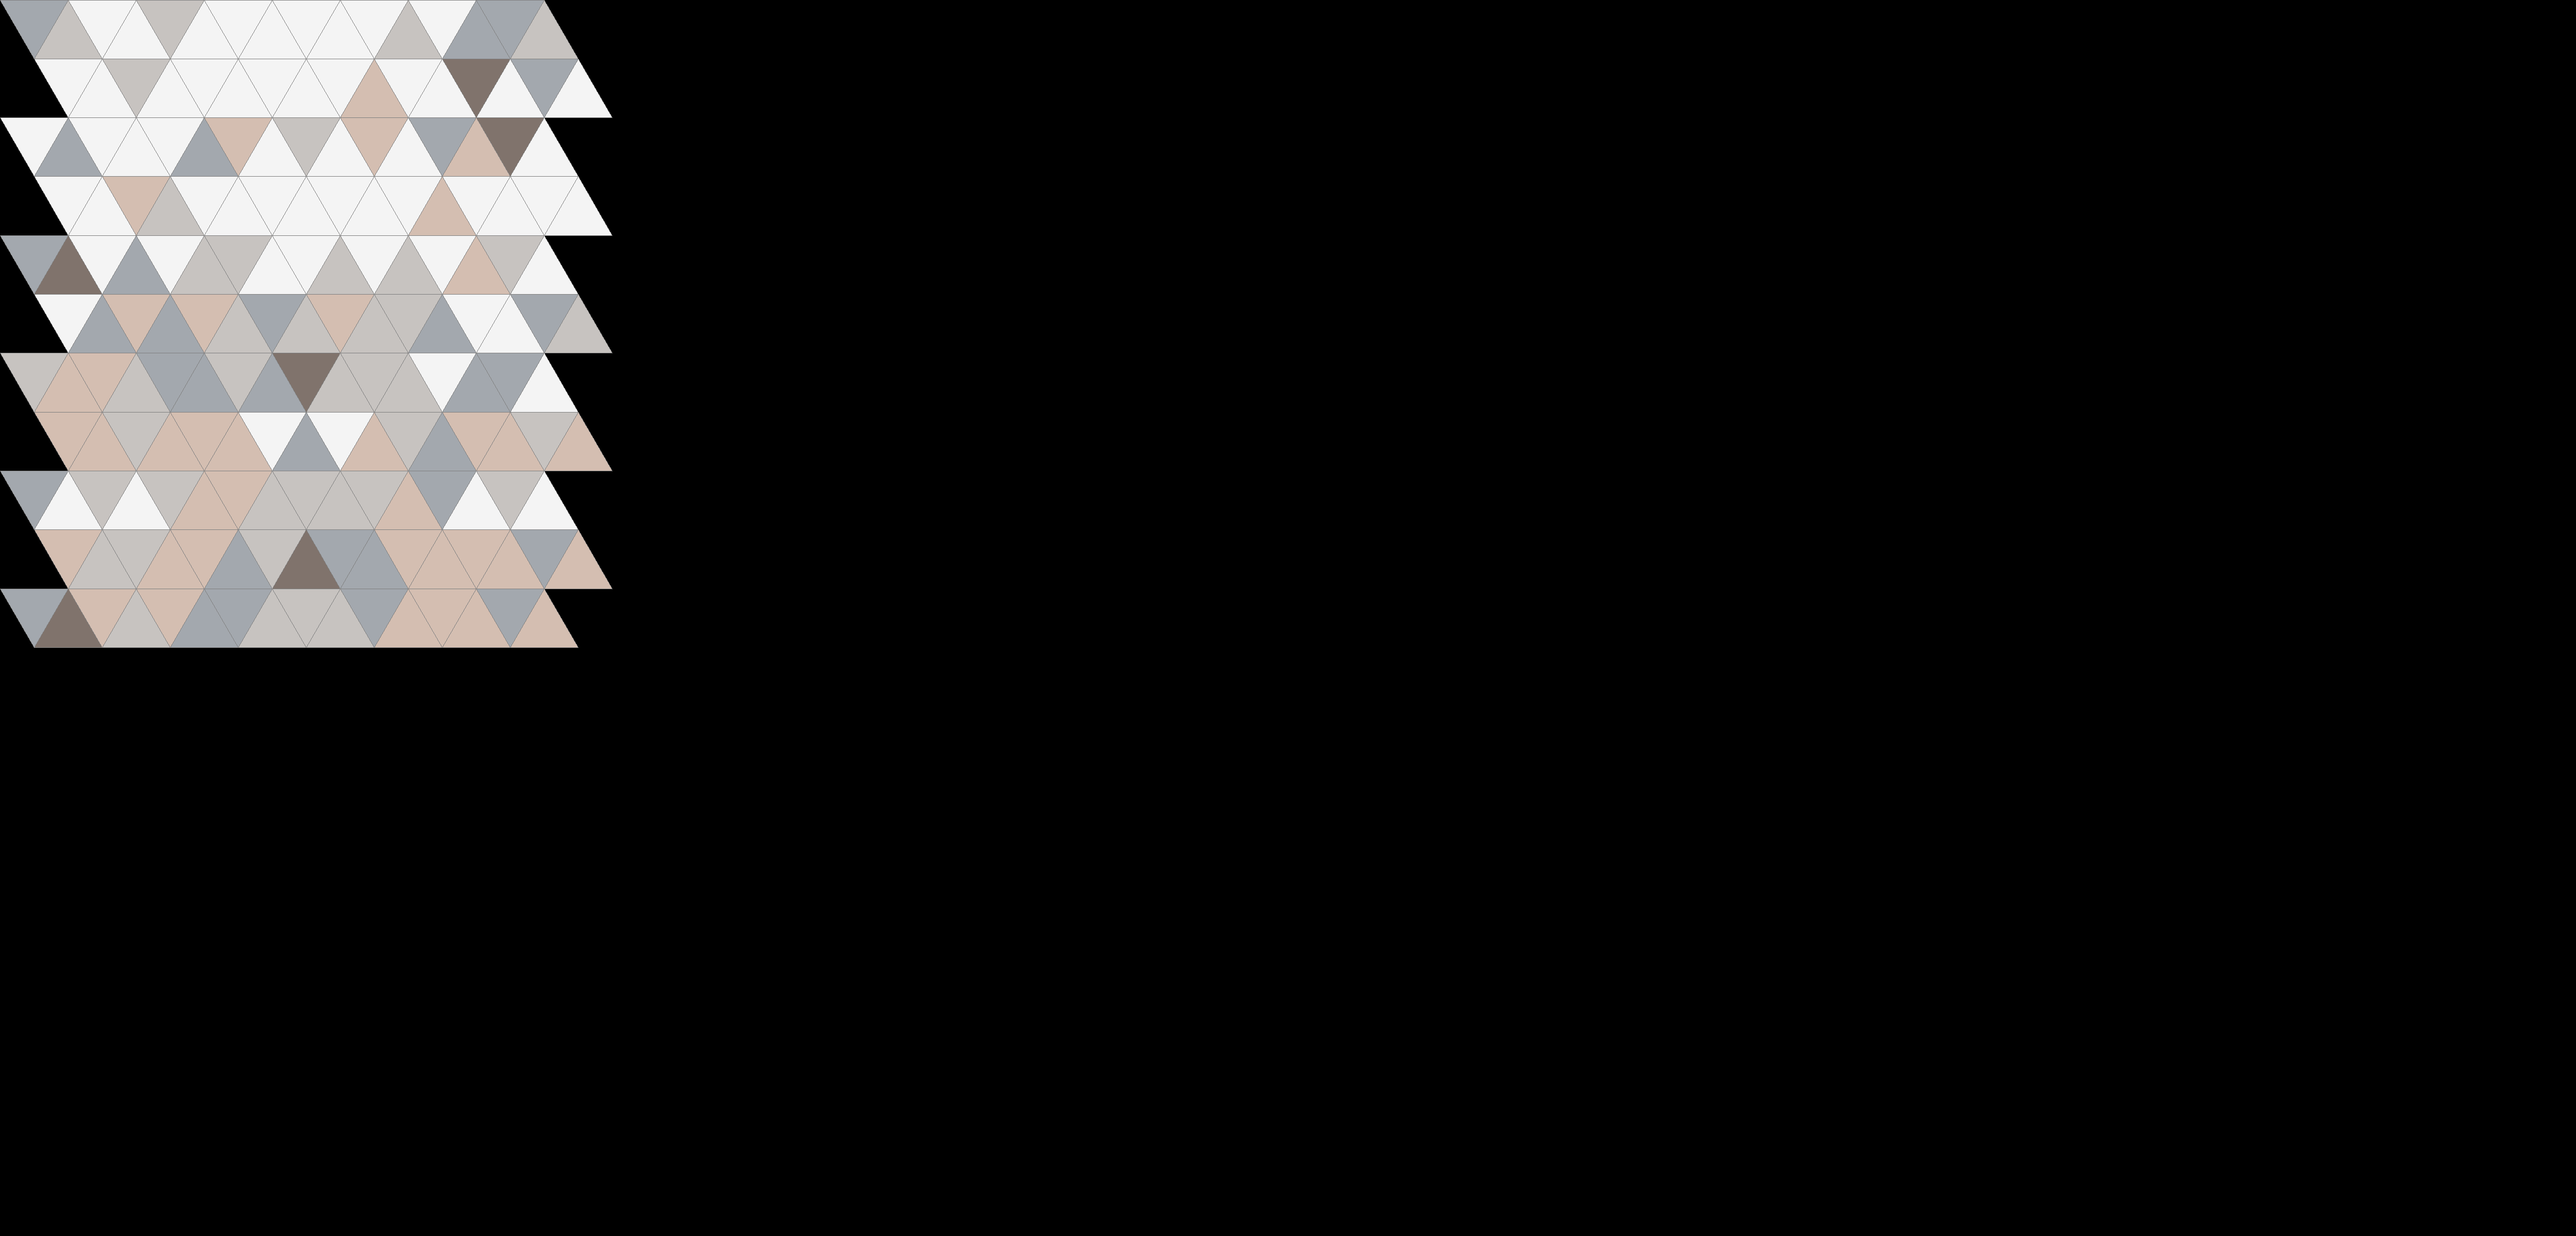
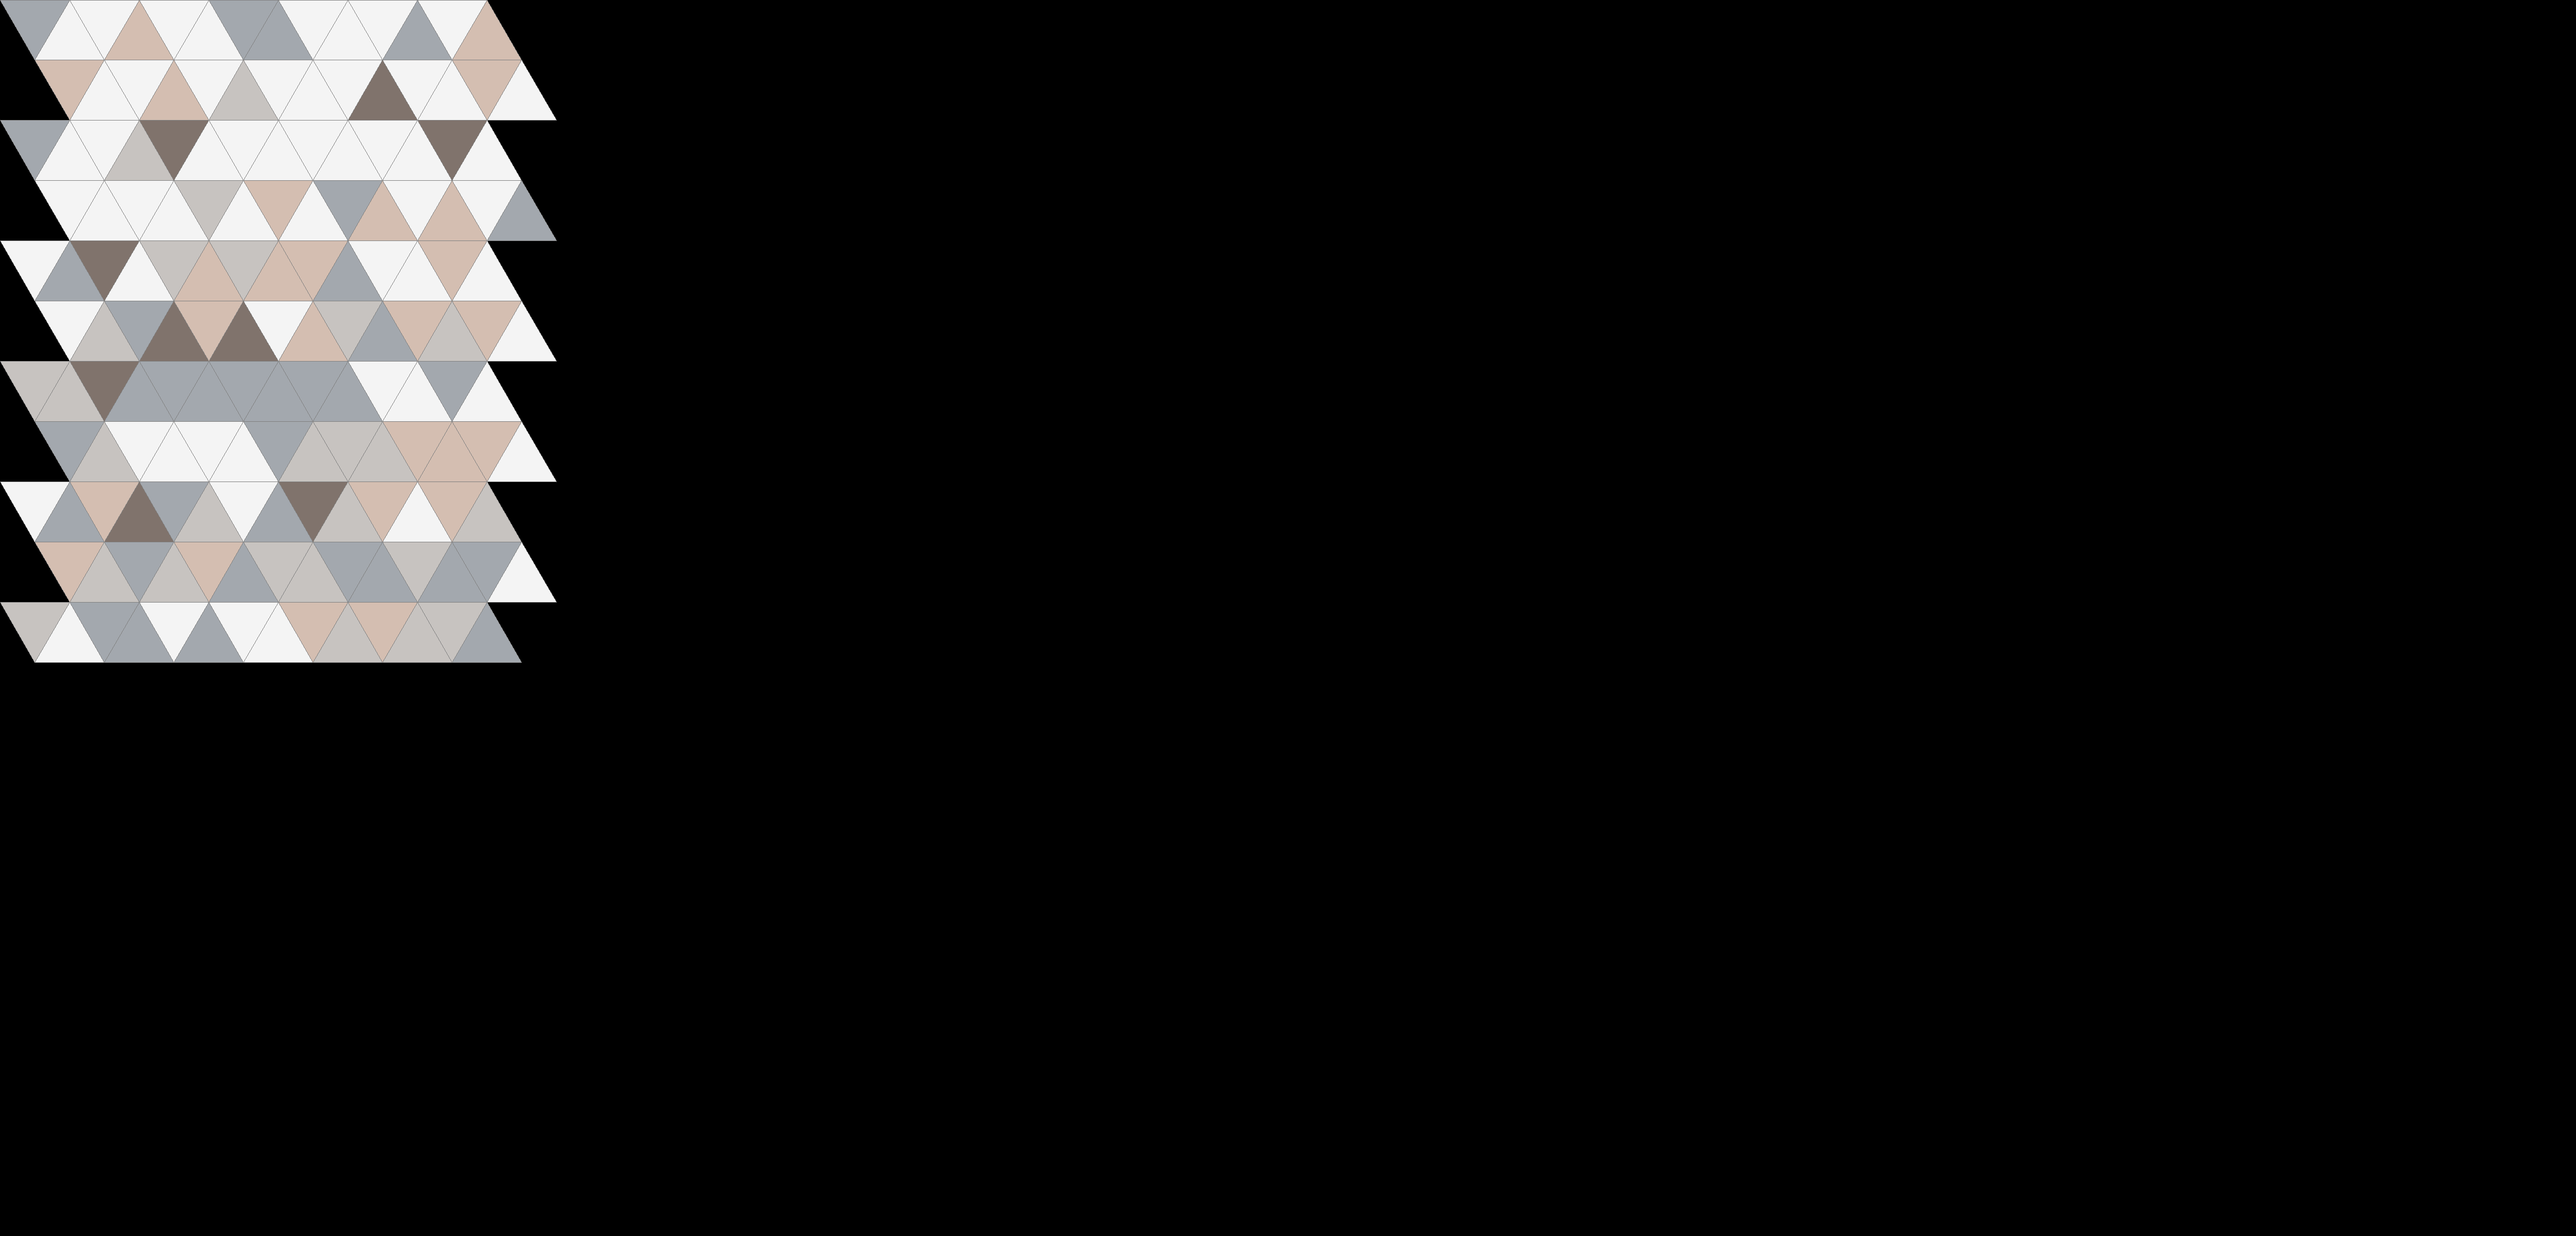
final version

Changed region(s): [[0.0, 0.0, 0.2496, 0.5625]]

diff --git a/run.py b/run.py
@@ -5,7 +5,7 @@ from typing import List
 
 from PIL import Image, ImageDraw
 
-random.seed(12)
+random.seed(2021)
 CANVAS_WIDTH = 5000
 CANVAS_HEIGHT = 2400
 color_map = {0: '#f4f4f4', 1: '#c7c3c0', 2: '#a3a8ae', 3: '#d4beb1', 4: '#80736c'}
@@ -112,7 +112,7 @@ class Wall:
         self.wall_summary.loc['Beschikbaar'] = [13*30,3*30,3*30,3*30,1*30]
         self.wall_summary.loc['Overblijvend'] = self.wall_summary.loc['Beschikbaar'] - self.wall_summary.loc['Totaal']
         #assert self.wall_summary['Overblijvend'].min()<0
-        print(self.wall_summary)
+        #print(self.wall_summary)
         im.save(filename)
 
 
@@ -122,7 +122,7 @@ class Wall:
     #     draw_tiling(filename='first_wall.png')
     #     # draw_tiling(generate_hexagons,  filename='hexagons.png')
 
-tile = Tile(132, 114)
+tile = Tile(132+3, 114+3)
 
 SCHEMA = [[1, 0, 0, 0, 0],
           [0, 1, 0, 0, 0],
@@ -133,8 +133,8 @@ SCHEMA = [[1, 0, 0, 0, 0],
           [1, 1, 1, 1, 1]]
 
 
-first_wall = Wall(3000, 7 * 114, tile, SCHEMA)
-first_wall.draw_tiling(filename='first_wall.png')
+#first_wall = Wall(3000, 7 * 114, tile, SCHEMA)
+#first_wall.draw_tiling(filename='first_wall.png')
 
 SCHEMA2 = [[1, 0, 0, 0, 0],
            [0.90, 0.01, 0.02, 0.02, 0.05],
@@ -144,8 +144,8 @@ SCHEMA2 = [[1, 0, 0, 0, 0],
            [0.55, 0.10, 0.15, 0.15, 0.05],
            [0.45, 0.15, 0.15, 0.15, 0.10]
            ]
-second_wall = Wall(3000, 6 * 114, tile, SCHEMA2)
-second_wall.draw_tiling(filename='second_wall.png')
+#second_wall = Wall(3000, 6 * 114, tile, SCHEMA2)
+#second_wall.draw_tiling(filename='second_wall.png')
 
 SCHEMA3 = [
     [0.90, 0.01, 0.02, 0.02, 0.05],
@@ -156,7 +156,7 @@ SCHEMA3 = [
     [0.45, 0.20, 0.15, 0.15, 0.05],
     [0.30, 0.25, 0.20, 0.20, 0.05]
 ]
-third_wall = Wall(3000, 6 * 114, tile, SCHEMA3)
+third_wall = Wall(3600, 6 * 114, tile, SCHEMA3)
 third_wall.draw_tiling(filename='third_wall.png')
 save_aantallen = third_wall.wall_summary.loc['Overblijvend']
 
@@ -173,15 +173,24 @@ SCHEMA4 = [
     [0.10, 0.25, 0.30, 0.30, 0.05],
     [0.10, 0.30, 0.25, 0.30, 0.05]
 ]
-korte_wall = Wall(1000, 10 * 114, tile, SCHEMA4)
+korte_wall = Wall(880, 10 * 114, tile, SCHEMA4)
 korte_wall.draw_tiling(filename='korte_wall.png')
-print(save_aantallen)
-class Test_wall:
-    def __init__(self, test_wall, test_tile):
-        assert test_wall.n_rows == 1
-        assert test_wall.n_tiles_per_row == 2
-        assert test_wall.n_tiles == 2
-
-
-test_wall = Test_wall(Wall(13.2, 11.4, Tile(13.2, 11.4), [1, 1, 1, 1, 1]), Tile(13.2, 11.4))
+korte_wall.wall_summary.loc['Beschikbaar'] = save_aantallen
+korte_wall.wall_summary.loc['Overblijvend'] = save_aantallen - korte_wall.wall_summary.loc['Totaal']
+print(korte_wall.wall_summary)
+save_aantallen_nakort = korte_wall.wall_summary.loc['Overblijvend']
+# class Test_wall:
+#     def __init__(self, test_wall, test_tile):
+#         assert test_wall.n_rows == 1
+#         assert test_wall.n_tiles_per_row == 2
+#         assert test_wall.n_tiles == 2
+#
+#
+# test_wall = Test_wall(Wall(13.2, 11.4, Tile(13.2, 11.4), [1, 1, 1, 1, 1]), Tile(13.2, 11.4))
 # t.create_row()
+
+koffie_stuk = Wall(1060, 6 * 114, tile, SCHEMA3)
+koffie_stuk.draw_tiling(filename='koffie.png')
+koffie_stuk.wall_summary.loc['Beschikbaar'] = save_aantallen_nakort
+koffie_stuk.wall_summary.loc['Overblijvend'] = save_aantallen_nakort - koffie_stuk.wall_summary.loc['Totaal']
+print(koffie_stuk.wall_summary)
